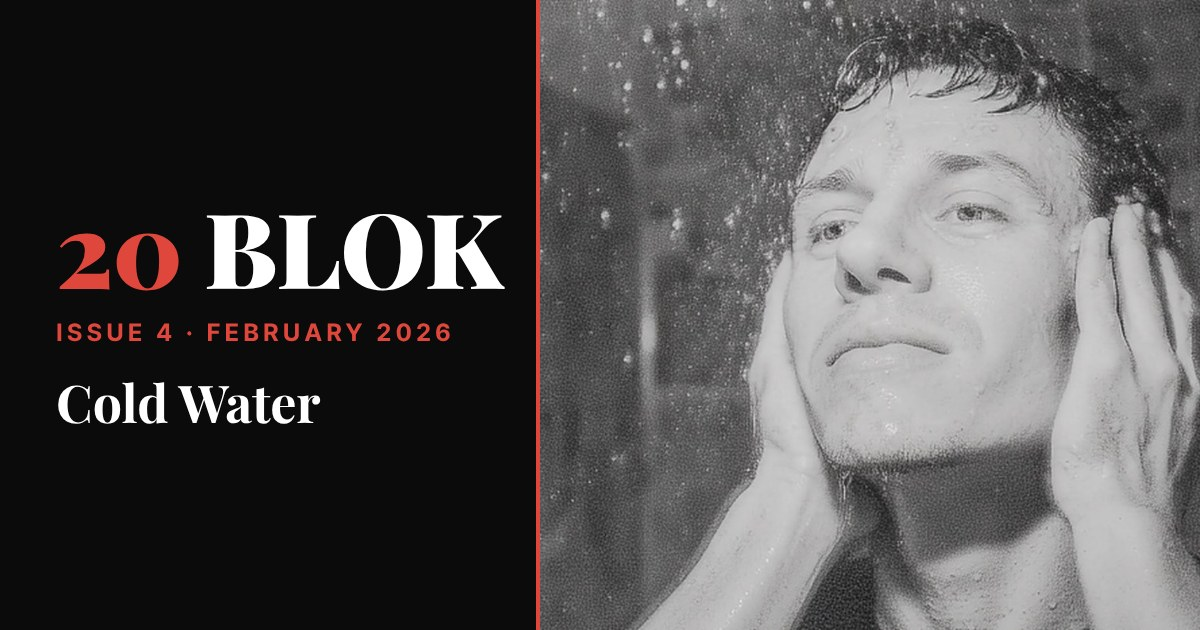
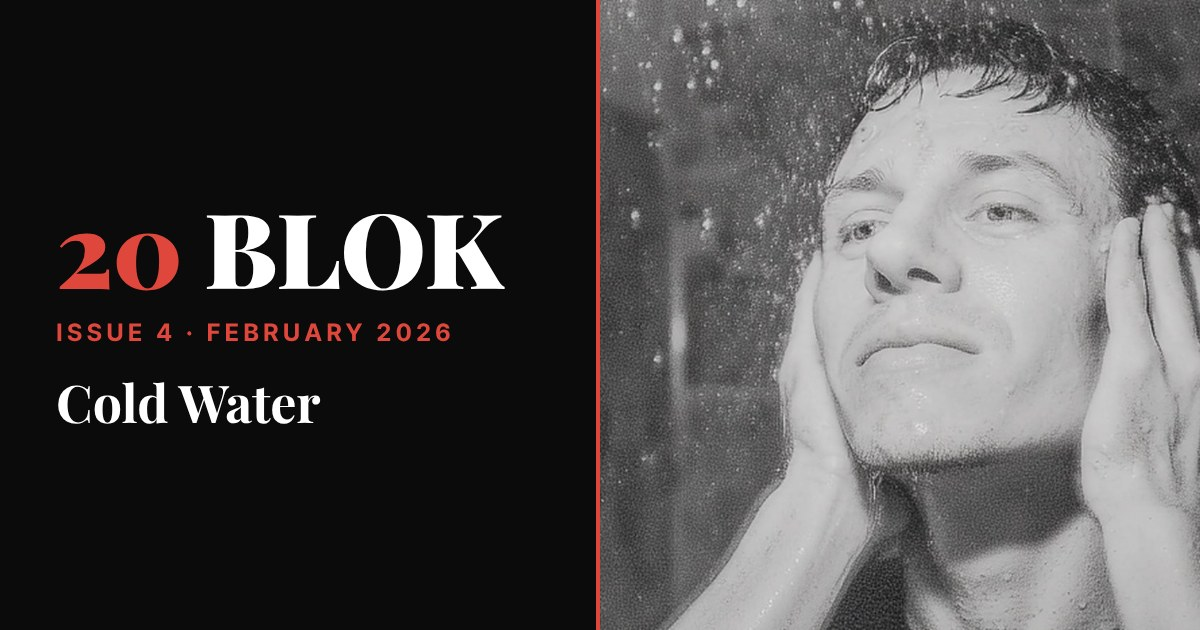
Issue preview cards: even 50/50 split; Issue 7 cover cropped to the scene
Claude-Session: https://claude.ai/code/session_014Ji4h1xsocjPajZ5pXP9qf

Changed region(s): [[0.4317, 0.0, 1.0, 1.0], [0.9867, 0.0, 1.0, 0.0302]]

diff --git a/source/share_cards.js b/source/share_cards.js
@@ -9,7 +9,7 @@ await p.setContent(`<style>
 @font-face{font-family:PF;font-weight:700;src:url(${fu('playfair-display/files/playfair-display-latin-700-normal.woff2')})}
 @font-face{font-family:IN;font-weight:700;src:url(${fu('inter/files/inter-latin-700-normal.woff2')})}
 *{margin:0;box-sizing:border-box}body{width:1200px;height:630px;background:#0b0b0b;display:flex;overflow:hidden}
-.l{width:540px;padding:0 56px;display:flex;flex-direction:column;justify-content:center;gap:26px;border-right:4px solid #e0473c}
+.l{width:600px;flex:none;padding:0 56px;display:flex;flex-direction:column;justify-content:center;gap:26px;border-right:4px solid #e0473c}
 .w{font:900 104px/0.9 PF;color:#fff;letter-spacing:-1px;white-space:nowrap}.w b{color:#e0473c;font-weight:900}
 .k{font:700 24px IN;letter-spacing:4px;color:#e0473c;text-transform:uppercase}
 .t{font:700 ${i.title.length>26?42:52}px/1.12 PF;color:#fff;text-wrap:balance}
